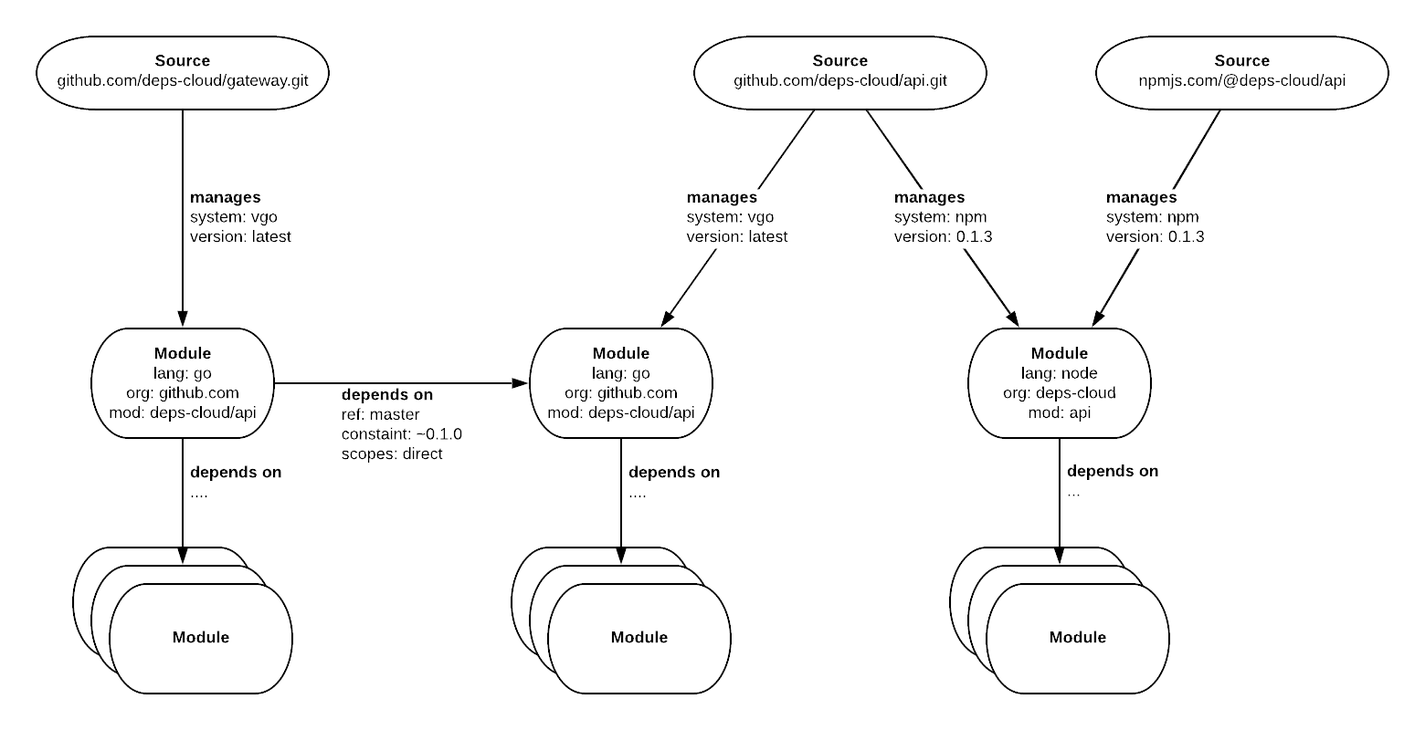
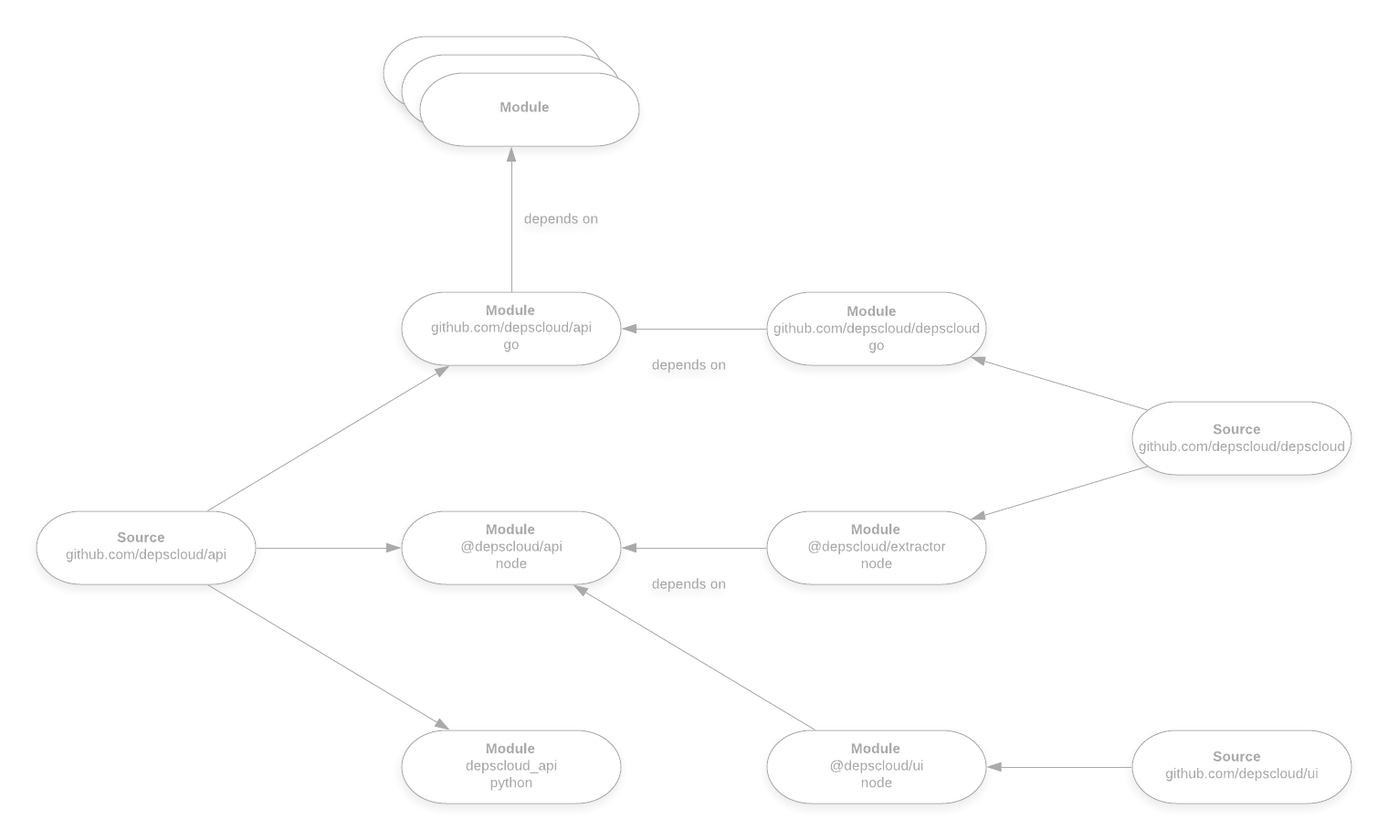
deploy: 63d91efc26b223a743ccba412c2f917ffbac046c

diff --git a/docs/deploy/config/storage/postgres/index.html b/docs/deploy/config/storage/postgres/index.html
@@ -26,12 +26,12 @@ Kubernetes With Kubernetes, you&rsquo;ll need to configure the secret object man
 apiVersion:v1kind:Secretmetadata:name:depscloud-trackerstringData:STORAGE_DRIVER:postrgresSTORAGE_ADDRESS:postgres://user-rw:password@depscloud-postgresql:5432/depscloudSTORAGE_READ_ONLY_ADDRESS:postgres://user:password@depscloud-postgresql:5432/depscloudHelm With the Helm chart, you have two options. First, you can pass the values into the helm chart as arguments during installation." />
 <meta property="og:type" content="article" />
 <meta property="og:url" content="https://deps.cloud/docs/deploy/config/storage/postgres/" />
-<meta property="article:modified_time" content="2020-10-16T08:56:54-05:00" /><meta property="og:site_name" content="deps.cloud" />
+<meta property="article:modified_time" content="2020-10-26T13:46:45-05:00" /><meta property="og:site_name" content="deps.cloud" />
 <meta itemprop="name" content="PostgreSQL">
 <meta itemprop="description" content="Driver: postgres Read-Write Connection String: postgres://user-rw:password@depscloud-postgresql:5432/depscloud Read-Only Connection String: postgres://user:password@depscloud-postgresql:5432/depscloud  Docker If using the simple Docker set up, these values can be configured using the --storage-driver, --storage-address, and --storage-readonly-address command line arguments.
 Kubernetes With Kubernetes, you&rsquo;ll need to configure the secret object manually. The block below demonstrates how to set up the depscloud-tracker configuration for PostgreSQL.
 apiVersion:v1kind:Secretmetadata:name:depscloud-trackerstringData:STORAGE_DRIVER:postrgresSTORAGE_ADDRESS:postgres://user-rw:password@depscloud-postgresql:5432/depscloudSTORAGE_READ_ONLY_ADDRESS:postgres://user:password@depscloud-postgresql:5432/depscloudHelm With the Helm chart, you have two options. First, you can pass the values into the helm chart as arguments during installation.">
-<meta itemprop="dateModified" content="2020-10-16T08:56:54-05:00" />
+<meta itemprop="dateModified" content="2020-10-26T13:46:45-05:00" />
 <meta itemprop="wordCount" content="144">
 
 
@@ -617,7 +617,7 @@ Contributions are welcome!</p>
 		<br />
 	
 	
-	<div class="text-muted mt-5 pt-3 border-top">Last modified October 16, 2020: <a  href="https://github.com/depscloud/deps.cloud/commit/fbadb4a0100facd31dbce8e82256008cba009eef">updated manifests file page now that we support module name querying (fbadb4a)</a>
+	<div class="text-muted mt-5 pt-3 border-top">Last modified October 26, 2020: <a  href="https://github.com/depscloud/deps.cloud/commit/63d91efc26b223a743ccba412c2f917ffbac046c">update data model image (63d91ef)</a>
 </div>
 </div>
 

diff --git a/docs/deploy/config/storage/sqlite/index.html b/docs/deploy/config/storage/sqlite/index.html
@@ -26,12 +26,12 @@ Kubernetes With Kubernetes, you&rsquo;ll need to configure the secret object man
 apiVersion:v1kind:Secretmetadata:name:depscloud-trackerstringData:STORAGE_DRIVER:sqliteSTORAGE_ADDRESS:file:depscloud.db?cache=shared&amp;mode=rwcSTORAGE_READ_ONLY_ADDRESS:file:depscloud.db?cache=shared&amp;mode=roHelm With the Helm chart, you have two options. First, you can pass the values into the helm chart as arguments during installation." />
 <meta property="og:type" content="article" />
 <meta property="og:url" content="https://deps.cloud/docs/deploy/config/storage/sqlite/" />
-<meta property="article:modified_time" content="2020-10-16T08:56:54-05:00" /><meta property="og:site_name" content="deps.cloud" />
+<meta property="article:modified_time" content="2020-10-26T13:46:45-05:00" /><meta property="og:site_name" content="deps.cloud" />
 <meta itemprop="name" content="SQLite">
 <meta itemprop="description" content="Storage Driver: sqlite Read-Write Connection String: file:depscloud.db?cache=shared&amp;mode=rwc Read-Only Connection String: file:depscloud.db?cache=shared&amp;mode=ro  Docker If using the simple Docker set up, these values can be configured using the --storage-driver, --storage-address, and --storage-readonly-address command line arguments.
 Kubernetes With Kubernetes, you&rsquo;ll need to configure the secret object manually. The block below demonstrates how to set up the depscloud-tracker configuration for SQLite.
 apiVersion:v1kind:Secretmetadata:name:depscloud-trackerstringData:STORAGE_DRIVER:sqliteSTORAGE_ADDRESS:file:depscloud.db?cache=shared&amp;mode=rwcSTORAGE_READ_ONLY_ADDRESS:file:depscloud.db?cache=shared&amp;mode=roHelm With the Helm chart, you have two options. First, you can pass the values into the helm chart as arguments during installation.">
-<meta itemprop="dateModified" content="2020-10-16T08:56:54-05:00" />
+<meta itemprop="dateModified" content="2020-10-26T13:46:45-05:00" />
 <meta itemprop="wordCount" content="120">
 
 
@@ -604,7 +604,7 @@ First, you can pass the values into the helm chart as arguments during installat
 		<br />
 	
 	
-	<div class="text-muted mt-5 pt-3 border-top">Last modified October 16, 2020: <a  href="https://github.com/depscloud/deps.cloud/commit/fbadb4a0100facd31dbce8e82256008cba009eef">updated manifests file page now that we support module name querying (fbadb4a)</a>
+	<div class="text-muted mt-5 pt-3 border-top">Last modified October 26, 2020: <a  href="https://github.com/depscloud/deps.cloud/commit/63d91efc26b223a743ccba412c2f917ffbac046c">update data model image (63d91ef)</a>
 </div>
 </div>
 

diff --git a/docs/deploy/config/indexing/github/index.html b/docs/deploy/config/indexing/github/index.html
@@ -25,11 +25,11 @@
 accounts:# full github schema- github:base_url:&#34;&lt;base_url&gt;&#34;upload_url:&#34;&lt;base_url&gt;&#34;users:- &#34;&lt;username&gt;&#34;organizations:- &#34;&lt;organization&gt;&#34;strategy:&#34;SSH | HTTP&#34;oauth2:token:&#34;&lt;oauth_token&gt;&#34;token_type:&#34;&lt;token_type&gt;&#34;refresh_token:&#34;&lt;refresh_token&gt;&#34;expiry:&#34;&lt;expiry&gt;&#34;Due to the variance in each of the client, there are a few oddities between each of the implementations." />
 <meta property="og:type" content="article" />
 <meta property="og:url" content="https://deps.cloud/docs/deploy/config/indexing/github/" />
-<meta property="article:modified_time" content="2020-10-16T08:56:54-05:00" /><meta property="og:site_name" content="deps.cloud" />
+<meta property="article:modified_time" content="2020-10-26T13:46:45-05:00" /><meta property="og:site_name" content="deps.cloud" />
 <meta itemprop="name" content="GitHub">
 <meta itemprop="description" content="GitHub is the largest source of repositories. Most companies have an account where they maintain their code repositories. Due to the system&rsquo;s popularity, it was one of the first integrations that was targeted. Below, you&rsquo;ll find the full set of configuration options that can be specified for a GitHub account.
 accounts:# full github schema- github:base_url:&#34;&lt;base_url&gt;&#34;upload_url:&#34;&lt;base_url&gt;&#34;users:- &#34;&lt;username&gt;&#34;organizations:- &#34;&lt;organization&gt;&#34;strategy:&#34;SSH | HTTP&#34;oauth2:token:&#34;&lt;oauth_token&gt;&#34;token_type:&#34;&lt;token_type&gt;&#34;refresh_token:&#34;&lt;refresh_token&gt;&#34;expiry:&#34;&lt;expiry&gt;&#34;Due to the variance in each of the client, there are a few oddities between each of the implementations.">
-<meta itemprop="dateModified" content="2020-10-16T08:56:54-05:00" />
+<meta itemprop="dateModified" content="2020-10-26T13:46:45-05:00" />
 <meta itemprop="wordCount" content="129">
 
 
@@ -606,7 +606,7 @@ While we work on getting parity between each of the providers take note that thi
 		<br />
 	
 	
-	<div class="text-muted mt-5 pt-3 border-top">Last modified October 16, 2020: <a  href="https://github.com/depscloud/deps.cloud/commit/fbadb4a0100facd31dbce8e82256008cba009eef">updated manifests file page now that we support module name querying (fbadb4a)</a>
+	<div class="text-muted mt-5 pt-3 border-top">Last modified October 26, 2020: <a  href="https://github.com/depscloud/deps.cloud/commit/63d91efc26b223a743ccba412c2f917ffbac046c">update data model image (63d91ef)</a>
 </div>
 </div>
 

diff --git a/docs/deploy/config/storage/mysql/index.html b/docs/deploy/config/storage/mysql/index.html
@@ -26,12 +26,12 @@ Kubernetes With Kubernetes, you&rsquo;ll need to configure the secret object man
 apiVersion:v1kind:Secretmetadata:name:depscloud-trackerstringData:STORAGE_DRIVER:mysqlSTORAGE_ADDRESS:user-rw:password@tcp(depscloud-mysql:3306)/depscloudSTORAGE_READ_ONLY_ADDRESS:user:password@tcp(depscloud-mysql:3306)/depscloudHelm With the Helm chart, you have two options. First, you can pass the values into the helm chart as arguments during installation." />
 <meta property="og:type" content="article" />
 <meta property="og:url" content="https://deps.cloud/docs/deploy/config/storage/mysql/" />
-<meta property="article:modified_time" content="2020-10-16T08:56:54-05:00" /><meta property="og:site_name" content="deps.cloud" />
+<meta property="article:modified_time" content="2020-10-26T13:46:45-05:00" /><meta property="og:site_name" content="deps.cloud" />
 <meta itemprop="name" content="MySQL">
 <meta itemprop="description" content="Driver: mysql Read-Write Connection String: user-rw:password@tcp(depscloud-mysql:3306)/depscloud Read-Only Connection String: user:password@tcp(depscloud-mysql:3306)/depscloud  Docker If using the simple Docker set up, these values can be configured using the --storage-driver, --storage-address, and --storage-readonly-address command line arguments.
 Kubernetes With Kubernetes, you&rsquo;ll need to configure the secret object manually. The block below demonstrates how to set up the depscloud-tracker configuration for MySQL.
 apiVersion:v1kind:Secretmetadata:name:depscloud-trackerstringData:STORAGE_DRIVER:mysqlSTORAGE_ADDRESS:user-rw:password@tcp(depscloud-mysql:3306)/depscloudSTORAGE_READ_ONLY_ADDRESS:user:password@tcp(depscloud-mysql:3306)/depscloudHelm With the Helm chart, you have two options. First, you can pass the values into the helm chart as arguments during installation.">
-<meta itemprop="dateModified" content="2020-10-16T08:56:54-05:00" />
+<meta itemprop="dateModified" content="2020-10-26T13:46:45-05:00" />
 <meta itemprop="wordCount" content="169">
 
 
@@ -622,7 +622,7 @@ Contributions are welcome!</p>
 		<br />
 	
 	
-	<div class="text-muted mt-5 pt-3 border-top">Last modified October 16, 2020: <a  href="https://github.com/depscloud/deps.cloud/commit/fbadb4a0100facd31dbce8e82256008cba009eef">updated manifests file page now that we support module name querying (fbadb4a)</a>
+	<div class="text-muted mt-5 pt-3 border-top">Last modified October 26, 2020: <a  href="https://github.com/depscloud/deps.cloud/commit/63d91efc26b223a743ccba412c2f917ffbac046c">update data model image (63d91ef)</a>
 </div>
 </div>
 

diff --git a/docs/deploy/config/indexing/bitbucket/index.html b/docs/deploy/config/indexing/bitbucket/index.html
@@ -25,11 +25,11 @@
 accounts:# full bitbucket schema- bitbucket:users:- &#34;&lt;username&gt;&#34;teams:- &#34;&lt;teamname&gt;&#34;strategy:&#34;SSH | HTTP&#34;basic:username:&#34;&lt;username&gt;&#34;password:&#34;&lt;app_password&gt;&#34;oauth:token:&#34;&lt;oauth_token&gt;&#34;application_id:&#34;&lt;application_id&gt;&#34;Due to the variance in each of the client, there are a few oddities between each of the implementations." />
 <meta property="og:type" content="article" />
 <meta property="og:url" content="https://deps.cloud/docs/deploy/config/indexing/bitbucket/" />
-<meta property="article:modified_time" content="2020-10-16T08:56:54-05:00" /><meta property="og:site_name" content="deps.cloud" />
+<meta property="article:modified_time" content="2020-10-26T13:46:45-05:00" /><meta property="og:site_name" content="deps.cloud" />
 <meta itemprop="name" content="Bitbucket">
 <meta itemprop="description" content="BitBucket is a common provider used by those seeking private repository support with great integration into existing Atlassian products (like Jira and Confluence). Below is the complete set of options that can be used to configure your integration. Either basic or oauth should be provided. Otherwise, you will only have access to public repositories. I&rsquo;ve found that basic using an application password has been the easiest to configure.
 accounts:# full bitbucket schema- bitbucket:users:- &#34;&lt;username&gt;&#34;teams:- &#34;&lt;teamname&gt;&#34;strategy:&#34;SSH | HTTP&#34;basic:username:&#34;&lt;username&gt;&#34;password:&#34;&lt;app_password&gt;&#34;oauth:token:&#34;&lt;oauth_token&gt;&#34;application_id:&#34;&lt;application_id&gt;&#34;Due to the variance in each of the client, there are a few oddities between each of the implementations.">
-<meta itemprop="dateModified" content="2020-10-16T08:56:54-05:00" />
+<meta itemprop="dateModified" content="2020-10-26T13:46:45-05:00" />
 <meta itemprop="wordCount" content="147">
 
 
@@ -606,7 +606,7 @@ While we work on getting parity between each of the providers take note that thi
 		<br />
 	
 	
-	<div class="text-muted mt-5 pt-3 border-top">Last modified October 16, 2020: <a  href="https://github.com/depscloud/deps.cloud/commit/fbadb4a0100facd31dbce8e82256008cba009eef">updated manifests file page now that we support module name querying (fbadb4a)</a>
+	<div class="text-muted mt-5 pt-3 border-top">Last modified October 26, 2020: <a  href="https://github.com/depscloud/deps.cloud/commit/63d91efc26b223a743ccba412c2f917ffbac046c">update data model image (63d91ef)</a>
 </div>
 </div>
 

diff --git a/docs/guides/cli/index.html b/docs/guides/cli/index.html
@@ -25,11 +25,11 @@
 $ deps get -h Retrieve information from the graph Usage: deps get [command] Available Commands: dependencies Get the list of modules the given module depends on dependents Get the list of modules that depend on the given module modules Get a list of modules from the service sources Get a list of source repositories from the service Flags: -h, --help help for get Use &#34;deps get [command] --help&#34; for more information about a command." />
 <meta property="og:type" content="article" />
 <meta property="og:url" content="https://deps.cloud/docs/guides/cli/" />
-<meta property="article:modified_time" content="2020-10-16T08:56:54-05:00" /><meta property="og:site_name" content="deps.cloud" />
+<meta property="article:modified_time" content="2020-10-26T13:46:45-05:00" /><meta property="og:site_name" content="deps.cloud" />
 <meta itemprop="name" content="Command Line">
 <meta itemprop="description" content="Prior to the command line tool (CLI) existing, the only way to interact with the system was through the RESTful API. It helps obfuscate the specifics about each endpoint by encapsulating them behind a target. Currently, this tool provides read only access to API.
 $ deps get -h Retrieve information from the graph Usage: deps get [command] Available Commands: dependencies Get the list of modules the given module depends on dependents Get the list of modules that depend on the given module modules Get a list of modules from the service sources Get a list of source repositories from the service Flags: -h, --help help for get Use &#34;deps get [command] --help&#34; for more information about a command.">
-<meta itemprop="dateModified" content="2020-10-16T08:56:54-05:00" />
+<meta itemprop="dateModified" content="2020-10-26T13:46:45-05:00" />
 <meta itemprop="wordCount" content="756">
 
 
@@ -684,7 +684,7 @@ When one tier is complete, the next tier can be processed safely without worryin
 		<br />
 	
 	
-	<div class="text-muted mt-5 pt-3 border-top">Last modified October 16, 2020: <a  href="https://github.com/depscloud/deps.cloud/commit/fbadb4a0100facd31dbce8e82256008cba009eef">updated manifests file page now that we support module name querying (fbadb4a)</a>
+	<div class="text-muted mt-5 pt-3 border-top">Last modified October 26, 2020: <a  href="https://github.com/depscloud/deps.cloud/commit/63d91efc26b223a743ccba412c2f917ffbac046c">update data model image (63d91ef)</a>
 </div>
 </div>
 

diff --git a/docs/contrib/docker/index.html b/docs/contrib/docker/index.html
@@ -26,12 +26,12 @@ Each part of the deps.cloud ecosystem has an associated docker target that build
    Repository Path Target     depscloud/depscloud /extractor npm run docker   depscloud/depscloud /gateway make docker   depscloud/depscloud /indexer make docker   depscloud/depscloud /tracker make docker    Once you&rsquo;ve produced an image containing your local changes, you can easily update your stack to pick up the new image." />
 <meta property="og:type" content="article" />
 <meta property="og:url" content="https://deps.cloud/docs/contrib/docker/" />
-<meta property="article:modified_time" content="2020-10-16T08:56:54-05:00" /><meta property="og:site_name" content="deps.cloud" />
+<meta property="article:modified_time" content="2020-10-26T13:46:45-05:00" /><meta property="og:site_name" content="deps.cloud" />
 <meta itemprop="name" content="Developing in Docker">
 <meta itemprop="description" content="When developing with docker, you&rsquo;ll want to get familiar with how to deploy the system using Docker.
 Each part of the deps.cloud ecosystem has an associated docker target that builds a container. This container can be used with the docker deployment configuration to test changes locally.
    Repository Path Target     depscloud/depscloud /extractor npm run docker   depscloud/depscloud /gateway make docker   depscloud/depscloud /indexer make docker   depscloud/depscloud /tracker make docker    Once you&rsquo;ve produced an image containing your local changes, you can easily update your stack to pick up the new image.">
-<meta itemprop="dateModified" content="2020-10-16T08:56:54-05:00" />
+<meta itemprop="dateModified" content="2020-10-26T13:46:45-05:00" />
 <meta itemprop="wordCount" content="90">
 
 
@@ -592,7 +592,7 @@ This container can be used with the docker deployment configuration to test chan
 		<br />
 	
 	
-	<div class="text-muted mt-5 pt-3 border-top">Last modified October 16, 2020: <a  href="https://github.com/depscloud/deps.cloud/commit/fbadb4a0100facd31dbce8e82256008cba009eef">updated manifests file page now that we support module name querying (fbadb4a)</a>
+	<div class="text-muted mt-5 pt-3 border-top">Last modified October 26, 2020: <a  href="https://github.com/depscloud/deps.cloud/commit/63d91efc26b223a743ccba412c2f917ffbac046c">update data model image (63d91ef)</a>
 </div>
 </div>
 

diff --git a/docs/deploy/config/indexing/gitlab/index.html b/docs/deploy/config/indexing/gitlab/index.html
@@ -24,10 +24,10 @@
 <meta property="og:description" content="GitLab is a common provider used by those seeking an on-premise solution who do not want their source code managed by a third party provider. Many companies choose to run this system internally. Below, you will find the list of options that can be configured to get the system running. Either private or oauth should be provided. Otherwise, you will only have access to public repositories. I&rsquo;ve found configuring the private token to be the easiest." />
 <meta property="og:type" content="article" />
 <meta property="og:url" content="https://deps.cloud/docs/deploy/config/indexing/gitlab/" />
-<meta property="article:modified_time" content="2020-10-16T08:56:54-05:00" /><meta property="og:site_name" content="deps.cloud" />
+<meta property="article:modified_time" content="2020-10-26T13:46:45-05:00" /><meta property="og:site_name" content="deps.cloud" />
 <meta itemprop="name" content="GitLab">
 <meta itemprop="description" content="GitLab is a common provider used by those seeking an on-premise solution who do not want their source code managed by a third party provider. Many companies choose to run this system internally. Below, you will find the list of options that can be configured to get the system running. Either private or oauth should be provided. Otherwise, you will only have access to public repositories. I&rsquo;ve found configuring the private token to be the easiest.">
-<meta itemprop="dateModified" content="2020-10-16T08:56:54-05:00" />
+<meta itemprop="dateModified" content="2020-10-26T13:46:45-05:00" />
 <meta itemprop="wordCount" content="155">
 
 
@@ -604,7 +604,7 @@ While we work on getting parity between each of the providers take note that thi
 		<br />
 	
 	
-	<div class="text-muted mt-5 pt-3 border-top">Last modified October 16, 2020: <a  href="https://github.com/depscloud/deps.cloud/commit/fbadb4a0100facd31dbce8e82256008cba009eef">updated manifests file page now that we support module name querying (fbadb4a)</a>
+	<div class="text-muted mt-5 pt-3 border-top">Last modified October 26, 2020: <a  href="https://github.com/depscloud/deps.cloud/commit/63d91efc26b223a743ccba412c2f917ffbac046c">update data model image (63d91ef)</a>
 </div>
 </div>
 

diff --git a/docs/contrib/git/index.html b/docs/contrib/git/index.html
@@ -26,12 +26,12 @@ mkdir -p ${GOPATH}/src/github.com/depscloud &amp;&amp; cd $_ Once you have a wor
 git clone git@github.com:depscloud/depscloud.git # source code git clone git@github.com:depscloud/deploy.git # deployment config git clone git@github.com:depscloud/deps.cloud.git # website git clone git@github." />
 <meta property="og:type" content="article" />
 <meta property="og:url" content="https://deps.cloud/docs/contrib/git/" />
-<meta property="article:modified_time" content="2020-10-16T08:56:54-05:00" /><meta property="og:site_name" content="deps.cloud" />
+<meta property="article:modified_time" content="2020-10-26T13:46:45-05:00" /><meta property="og:site_name" content="deps.cloud" />
 <meta itemprop="name" content="Working with git">
 <meta itemprop="description" content="Cloning Projects Let&rsquo;s get started by creating a workspace for the project. Many contributors work with Go and follow their convention.
 mkdir -p ${GOPATH}/src/github.com/depscloud &amp;&amp; cd $_ Once you have a workspace, you&rsquo;ll want to clone the relevant projects. Most people contribute to depscloud but will also need deploy for docker.
 git clone git@github.com:depscloud/depscloud.git # source code git clone git@github.com:depscloud/deploy.git # deployment config git clone git@github.com:depscloud/deps.cloud.git # website git clone git@github.">
-<meta itemprop="dateModified" content="2020-10-16T08:56:54-05:00" />
+<meta itemprop="dateModified" content="2020-10-26T13:46:45-05:00" />
 <meta itemprop="wordCount" content="233">
 
 
@@ -588,7 +588,7 @@ After a branch has been pushed, you can use <a href="https://help.github.com/en/
 		<br />
 	
 	
-	<div class="text-muted mt-5 pt-3 border-top">Last modified October 16, 2020: <a  href="https://github.com/depscloud/deps.cloud/commit/fbadb4a0100facd31dbce8e82256008cba009eef">updated manifests file page now that we support module name querying (fbadb4a)</a>
+	<div class="text-muted mt-5 pt-3 border-top">Last modified October 26, 2020: <a  href="https://github.com/depscloud/deps.cloud/commit/63d91efc26b223a743ccba412c2f917ffbac046c">update data model image (63d91ef)</a>
 </div>
 </div>
 

diff --git a/docs/deploy/helm/index.html b/docs/deploy/helm/index.html
@@ -25,11 +25,11 @@
 Prerequisites  A working Kubernetes cluster. To follow along with this guide, you should set up Minikube on your machine. Minikube provides a great way to test and experiment around with Kubernetes locally. The kubectl binary should be installed and in your path on your workstation. The helm binary should be installed and in your path on your workstation." />
 <meta property="og:type" content="article" />
 <meta property="og:url" content="https://deps.cloud/docs/deploy/helm/" />
-<meta property="article:modified_time" content="2020-10-16T08:56:54-05:00" /><meta property="og:site_name" content="deps.cloud" />
+<meta property="article:modified_time" content="2020-10-26T13:46:45-05:00" /><meta property="og:site_name" content="deps.cloud" />
 <meta itemprop="name" content="Helm">
 <meta itemprop="description" content="This guide explains how to run the deps.cloud infrastructure within a Kubernetes cluster using the Helm package manager.
 Prerequisites  A working Kubernetes cluster. To follow along with this guide, you should set up Minikube on your machine. Minikube provides a great way to test and experiment around with Kubernetes locally. The kubectl binary should be installed and in your path on your workstation. The helm binary should be installed and in your path on your workstation.">
-<meta itemprop="dateModified" content="2020-10-16T08:56:54-05:00" />
+<meta itemprop="dateModified" content="2020-10-26T13:46:45-05:00" />
 <meta itemprop="wordCount" content="440">
 
 
@@ -673,7 +673,7 @@ If provides a way to manage Helm releases within a cluster through custom resour
 		<br />
 	
 	
-	<div class="text-muted mt-5 pt-3 border-top">Last modified October 16, 2020: <a  href="https://github.com/depscloud/deps.cloud/commit/fbadb4a0100facd31dbce8e82256008cba009eef">updated manifests file page now that we support module name querying (fbadb4a)</a>
+	<div class="text-muted mt-5 pt-3 border-top">Last modified October 26, 2020: <a  href="https://github.com/depscloud/deps.cloud/commit/63d91efc26b223a743ccba412c2f917ffbac046c">update data model image (63d91ef)</a>
 </div>
 </div>
 

diff --git a/docs/concepts/manifests/index.html b/docs/concepts/manifests/index.html
@@ -25,11 +25,11 @@
 Using this information, deps.cloud is able to build a knowledge graph. The table below demonstrates how to interpret the information extracted from various manifests. Since there is no standardization across languages, extraction may vary between implementations." />
 <meta property="og:type" content="article" />
 <meta property="og:url" content="https://deps.cloud/docs/concepts/manifests/" />
-<meta property="article:modified_time" content="2020-10-16T08:56:54-05:00" /><meta property="og:site_name" content="deps.cloud" />
+<meta property="article:modified_time" content="2020-10-26T13:46:45-05:00" /><meta property="og:site_name" content="deps.cloud" />
 <meta itemprop="name" content="Manifest Files">
 <meta itemprop="description" content="A manifest is the generic term used to describe documents that communicate a systems requirements or dependencies. These dependencies come in many shapes and forms, but the most common dependency is a library. Libraries are packages containing common code that is shared between projects.
 Using this information, deps.cloud is able to build a knowledge graph. The table below demonstrates how to interpret the information extracted from various manifests. Since there is no standardization across languages, extraction may vary between implementations.">
-<meta itemprop="dateModified" content="2020-10-16T08:56:54-05:00" />
+<meta itemprop="dateModified" content="2020-10-26T13:46:45-05:00" />
 <meta itemprop="wordCount" content="162">
 
 
@@ -640,7 +640,7 @@ Since there is no standardization across languages, extraction may vary between 
 		<br />
 	
 	
-	<div class="text-muted mt-5 pt-3 border-top">Last modified October 16, 2020: <a  href="https://github.com/depscloud/deps.cloud/commit/fbadb4a0100facd31dbce8e82256008cba009eef">updated manifests file page now that we support module name querying (fbadb4a)</a>
+	<div class="text-muted mt-5 pt-3 border-top">Last modified October 26, 2020: <a  href="https://github.com/depscloud/deps.cloud/commit/63d91efc26b223a743ccba412c2f917ffbac046c">update data model image (63d91ef)</a>
 </div>
 </div>
 

diff --git a/docs/deploy/k8s/index.html b/docs/deploy/k8s/index.html
@@ -25,11 +25,11 @@
 Prerequisites  A working Kubernetes cluster. To follow along with this guide, you should set up Minikube on your machine. Minikube provides a great way to test and experiment around with Kubernetes locally. The kubectl binary should be installed and in your path on your workstation.  1 - Configure a Storage Class deps.cloud leverages MySQL to store a given graphs dependency information." />
 <meta property="og:type" content="article" />
 <meta property="og:url" content="https://deps.cloud/docs/deploy/k8s/" />
-<meta property="article:modified_time" content="2020-10-16T08:56:54-05:00" /><meta property="og:site_name" content="deps.cloud" />
+<meta property="article:modified_time" content="2020-10-26T13:46:45-05:00" /><meta property="og:site_name" content="deps.cloud" />
 <meta itemprop="name" content="Kubernetes">
 <meta itemprop="description" content="This guide explains how to run the deps.cloud infrastructure within a Kubernetes cluster.
 Prerequisites  A working Kubernetes cluster. To follow along with this guide, you should set up Minikube on your machine. Minikube provides a great way to test and experiment around with Kubernetes locally. The kubectl binary should be installed and in your path on your workstation.  1 - Configure a Storage Class deps.cloud leverages MySQL to store a given graphs dependency information.">
-<meta itemprop="dateModified" content="2020-10-16T08:56:54-05:00" />
+<meta itemprop="dateModified" content="2020-10-26T13:46:45-05:00" />
 <meta itemprop="wordCount" content="632">
 
 
@@ -656,7 +656,7 @@ Forwarding from [::1]:8080 -&gt; 8080
 		<br />
 	
 	
-	<div class="text-muted mt-5 pt-3 border-top">Last modified October 16, 2020: <a  href="https://github.com/depscloud/deps.cloud/commit/fbadb4a0100facd31dbce8e82256008cba009eef">updated manifests file page now that we support module name querying (fbadb4a)</a>
+	<div class="text-muted mt-5 pt-3 border-top">Last modified October 26, 2020: <a  href="https://github.com/depscloud/deps.cloud/commit/63d91efc26b223a743ccba412c2f917ffbac046c">update data model image (63d91ef)</a>
 </div>
 </div>
 
